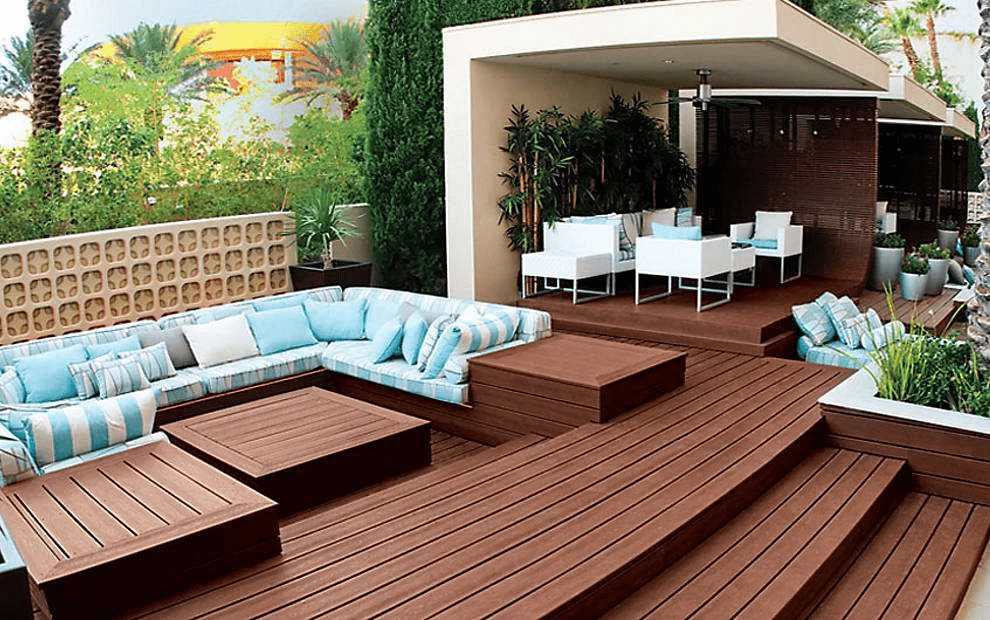
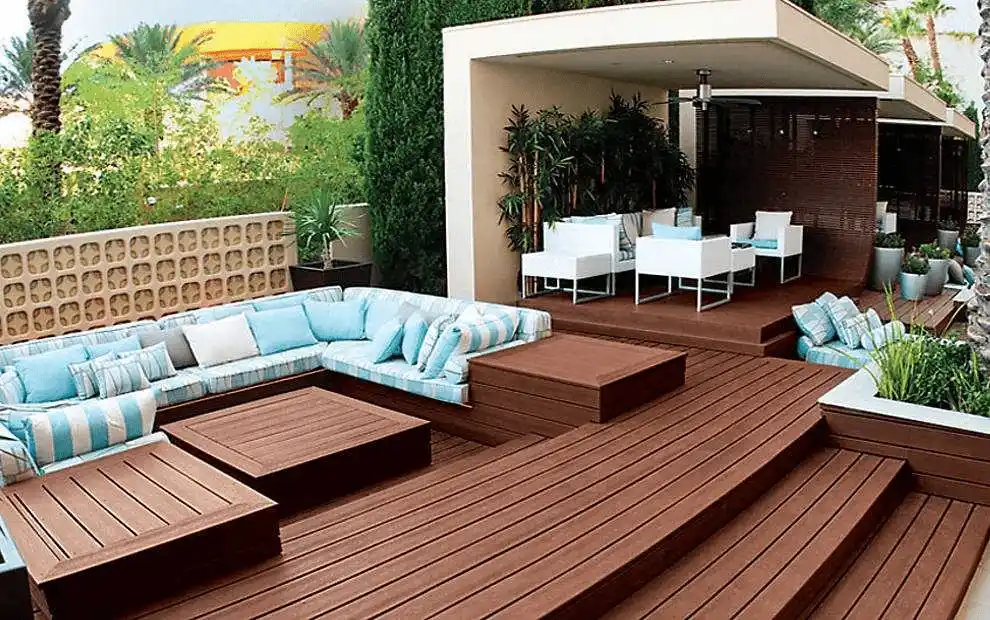
update: Images optimised

diff --git a/src/Catalogues.js b/src/Catalogues.js
@@ -7,6 +7,15 @@ import charcoalfile from './catalogs/Trend_Charcoal_Panels_2020.pdf';
 import doorfile from './catalogs/Trend_Door_Skin_2021.pdf';
 import digitalfile from './catalogs/Trend_HD_Digital_2021.pdf';
 import micafile from './catalogs/Trend_Liner_Mica_2020.pdf';
+import trend1 from './images/trend_1mm.webp';
+import trend8 from './images/trend_8mm.webp';
+import magazine1 from './images/magazine1.webp';
+import magazine2 from './images/magazine2.webp';
+import magazine3 from './images/magazine3.webp';
+import magazine4 from './images/magazine4.webp';
+import magazine5 from './images/magazine5.webp';
+import magazine6 from './images/magazine6.webp';
+
 
 function Catalogues() {
 
@@ -15,11 +24,11 @@ function Catalogues() {
             id: 1,
             title1: "PVC Premium Laminates",
             span1: 2,
-            src1: "magazine1",
+            src1: magazine1,
             file1: laminatesfile,
             title2: "Acrylic Premium Laminates",
             span2: 4,
-            src2: "magazine2",
+            src2: magazine2,
             fade: "right",
             file2: acrylicfile,
         },
@@ -27,11 +36,11 @@ function Catalogues() {
             id: 2,
             title1: "Trend Premium Door Skins",
             span1: 4,
-            src1: "magazine3",
+            src1: magazine3,
             file1: doorfile,
             title2: "Trend HD Digital Laminates",
             span2: 2,
-            src2: "magazine4",
+            src2: magazine4,
             fade: "left",
             file2: digitalfile,
         },
@@ -39,11 +48,11 @@ function Catalogues() {
             id: 3,
             title1: "Trend Liner Mica 2020",
             span1: 3,
-            src1: "magazine5",
+            src1: magazine5,
             file1: micafile,
             title2: "Korean Charcoal Panels",
             span2: 3,
-            src2: "magazine6",
+            src2: magazine6,
             fade: "right",
             file2: charcoalfile,
         },
@@ -60,16 +69,16 @@ function Catalogues() {
                         <div className="col-span-12 lg:col-span-4">
                             <a href={trend1file} download>
                                 <p className="mb-4 text-2xl font-medium cursor-pointer text-trend">Trend 1MM 2021</p>
-                                <div className="w-full overflow-hidden rounded-lg h-96">
-                                    <div className="w-full h-full overflow-hidden duration-500 transform rounded-lg cursor-pointer hover:scale-125 trend1" />
+                                <div className="w-full mx-auto overflow-hidden rounded-md h-96" data-aos="fade-right" data-aos-duration="2000">
+                                    <img src={trend1} alt="Download the catalog here" className="object-cover w-full h-full duration-500 transform rounded-md hover:scale-125" />
                                 </div>
                             </a>
                         </div>
                         <div className="col-span-12 mt-6 lg:mt-0 lg:col-span-8">
                             <a href={trend8file} download>
                                 <p className="mb-4 text-2xl font-medium cursor-pointer text-trend">Trend 0.8MM 2021</p>
-                                <div className="w-full overflow-hidden rounded-lg h-96">
-                                    <div className="w-full h-full overflow-hidden duration-500 transform rounded-lg cursor-pointer hover:scale-125 trend8" />
+                                <div className="w-full mx-auto overflow-hidden rounded-md h-96" data-aos="fade-right" data-aos-duration="2000">
+                                    <img src={trend8} alt="Download the catalog here" className="object-cover w-full h-full duration-500 transform rounded-md hover:scale-125" />
                                 </div>
                             </a>
                         </div>
@@ -81,16 +90,16 @@ function Catalogues() {
                             <div className={`col-span-6 lg:col-span-${span1}`} >
                                 <a href={file1} download>
                                     <p className="mb-4 text-2xl font-medium cursor-pointer text-trend">{title1}</p>
-                                    <div className="w-full overflow-hidden rounded-lg h-96">
-                                        <div className={"w-full overflow-hidden duration-500 transform rounded-lg cursor-pointer h-full hover:scale-125 " + src1} />
+                                    <div className="w-full mx-auto overflow-hidden rounded-md h-96" data-aos="fade-right" data-aos-duration="2000">
+                                        <img src={src1} alt="Download the catalog here" className="object-cover w-full h-full duration-500 transform rounded-md hover:scale-125" />
                                     </div>
                                 </a>
                             </div>
                             <div className={`col-span-6 mt-6 lg:mt-0 lg:col-span-${span2}`}>
                                 <a href={file2} download>
                                     <p className="mb-4 text-2xl font-medium cursor-pointer text-trend">{title2}</p>
-                                    <div className="w-full overflow-hidden rounded-lg h-96">
-                                        <div className={"w-full overflow-hidden duration-500 transform rounded-lg cursor-pointer h-full hover:scale-125 " + src2} />
+                                    <div className="w-full mx-auto overflow-hidden rounded-md h-96" data-aos="fade-right" data-aos-duration="2000">
+                                        <img src={src2} alt="Download the catalog here" className="object-cover w-full h-full duration-500 transform rounded-md hover:scale-125" />
                                     </div>
                                 </a>
                             </div>

diff --git a/src/Content.js b/src/Content.js
@@ -14,6 +14,10 @@ import office from './images/office.webp';
 import living_room from './images/livingroom.webp';
 import bed_room from './images/bedroom.webp';
 import { Link } from 'react-router-dom';
+import custom from './images/customdec.webp';
+import room5 from './images/room5.webp';
+import room6 from './images/room6.webp';
+import room7 from './images/room7.webp';
 
 function Content() {
 
@@ -79,8 +83,8 @@ function Content() {
                     </Link>
                 </div>
                 <div className="relative grid col-span-2 px-10 pr-10 my-20 mt-36 lg:my-16 xl:my-0 md:col-span-1">
-                    <div className="rounded-md custom-image-container">
-                        <div className="custom-image"></div>
+                    <div className="mx-auto overflow-hidden rounded-md w-72 h-96 lg:h-100 lg:w-96">
+                        <img src={custom} alt="" className="object-cover w-full h-full duration-500 transform rounded-md hover:scale-125" />
                     </div>
                     <div className="absolute w-40 h-auto p-3 bg-white rounded-md -top-28 right-2 xl:right-17 opacity-90 xl:w-44 xl:-top-11">
                         <img src={leaf} alt="leaf" className="h-5 md:h-auto" />
@@ -97,8 +101,8 @@ function Content() {
 
 
             <div className="grid items-center grid-cols-2 px-10 mt-20 xl:pl-28 xl:pr-60 md:gap-10 lg:gap-20">
-                <div className="rounded-md rooms" data-aos="fade-right" data-aos-duration="2000">
-                    <div className="stunning-design room-design"></div>
+                <div className="mx-auto overflow-hidden rounded-md w-72 h-96 lg:w-100 lg:h-120" data-aos="fade-right" data-aos-duration="2000">
+                    <img src={room5} alt="Sample of a room design" className="object-cover w-full h-full duration-500 transform rounded-md hover:scale-125" />
                 </div>
                 <div className="col-span-2 my-16 md:my-10 lg:pr-20 md:col-span-1" data-aos="fade-up" data-aos-duration="1000">
                     <p className="text-4xl font-bold lg:text-5xl font-garamond">Stunning Designs</p>
@@ -108,7 +112,7 @@ function Content() {
                     </Link>
                 </div>
             </div>
-            
+
             <div className="flex flex-col-reverse grid-cols-2 px-10 mt-20 md:items-center xl:px-44 md:gap-10 lg:gap-20 md:mt-32 md:grid">
                 <div className="my-16 lg:pl-16" data-aos="fade-up" data-aos-duration="2000">
                     <p className="text-4xl font-bold lg:text-5xl font-garamond">Finest Textures</p>
@@ -119,14 +123,14 @@ function Content() {
                         <button className="absolute flex items-center justify-center p-4 py-6 mt-6 text-base font-bold text-black duration-700 border border-black w-60 hover:text-white hover:border-transparent h-9 rounded-3xl button-slide">Learn About Us <BsArrowRight className="ml-2" size={30} /></button>
                     </Link>
                 </div>
-                <div className="col-span-2 rounded-md rooms md:col-span-1" data-aos="fade-left" data-aos-duration="2000">
-                    <div className="finest-texture room-design"></div>
+                <div className="m-0 overflow-hidden rounded-md lg:mx-auto w-72 h-96 lg:w-100 lg:h-120" data-aos="fade-right" data-aos-duration="2000">
+                    <img src={room6} alt="Sample of a room design" className="object-cover w-full h-full duration-500 transform rounded-md hover:scale-125" />
                 </div>
             </div>
-            
+
             <div className="grid items-center grid-cols-2 px-10 mt-20 xl:pl-28 xl:pr-60 md:gap-10 lg:gap-20 md:mb-20">
-                <div className="rounded-md rooms" data-aos="fade-right" data-aos-duration="2000">
-                    <div className="laser-precision room-design"></div>
+                <div className="mx-auto overflow-hidden rounded-md w-72 h-96 lg:w-100 lg:h-120" data-aos="fade-right" data-aos-duration="2000">
+                    <img src={room7} alt="Sample of a room design" className="object-cover w-full h-full duration-500 transform rounded-md hover:scale-125" />
                 </div>
                 <div className="col-span-2 my-16 lg:pr-20 md:col-span-1" data-aos="fade-up" data-aos-duration="1000">
                     <p className="text-4xl font-semibold md:text-5xl font-garamond">Laser Precision</p>

diff --git a/src/App.css b/src/App.css
@@ -106,103 +106,6 @@ body::after {
   display: none !important;
 }
 
-.rooms{
-  width: 470px;
-  height: 516px;
-  display: block;
-  margin: auto;
-  overflow:hidden;
-}
-
-.custom-image-container{
-  width: 366px;
-  height: 448px;
-  display: block;
-  margin: auto;
-  overflow: hidden;
-}
-
-.custom-image-container:hover .custom-image,.rooms:hover .room-design,.products:hover .product-list{
-  transform: scale(1.25);
-}
-
-.custom-image{
-  background: url('./images/customdec.webp');
-  background-position: center;
-  width: 100%;
-  height: 100%;
-  background-repeat: no-repeat;
-  transition: all 400ms ease-out;
-}
-
-.room-design,.product-list{
-  width: 100%;
-  height: 100%;
-  transition: all 400ms ease-out;
-}
-
-.stunning-design{
-  background: url('./images/room5.webp');
-  background-size: cover;
-  background-position: center;
-}
-
-.finest-texture{
-  background: url('./images/room6.webp');
-  background-size: cover;
-  background-position: center;
-}
-
-.laser-precision{
-  background: url('./images/room7.webp');
-  background-size: cover;
-  background-position: center;
-}
-
-.products{
-  width: 290px;
-  height: 366px;
-  display: block;
-  margin: auto;
-  overflow: hidden;
-}
-
-.decorative{
-  background: url('./images/decorative.webp');
-  background-size: cover;
-  background-position: center;
-}
-
-.pvc_laminates{
-  background: url('./images/pvc_laminates.webp');
-  background-size: cover;
-  background-position: center;
-}
-
-.korean{
-  background: url('./images/korean.webp');
-  background-size: cover;
-  background-position: center;
-}
-
-.pvc_tape{
-  background: url('./images/pvc_tape.webp');
-  background-size: cover;
-  background-position: center;
-}
-
-.acrylic{
-  background: url('./images/acrylic.webp');
-  background-size: cover;
-  background-position: center;
-}
-
-.wpc_board{
-  background: url('./images/wpc_board.webp');
-  background-size: cover;
-  background-position: center;
-}
-
 .tab-content{
   animation: fade 700ms ease-in-out;
   transform-origin: bottom;
@@ -260,54 +163,6 @@ body::after {
 
 .laminates4:hover~.lam-image4{
   transform: translateY(-96px);
-}
-
-.trend1{
-  background: url('./images/trend_1mm.webp');
-  background-size: cover;
-  background-position: center;
-}
-
-.trend8{
-  background: url('./images/trend_8mm.webp');
-  background-size: cover;
-  background-position: center;
-}
-
-.magazine1{
-  background: url('./images/magazine1.webp');
-  background-size: cover;
-  background-position: center;
-}
-
-.magazine2{
-  background: url('./images/magazine2.webp');
-  background-size: cover;
-  background-position: center;
-}
-
-.magazine3{
-  background: url('./images/magazine3.webp');
-  background-size: cover;
-  background-position: center;
-}
-
-.magazine4{
-  background: url('./images/magazine4.webp');
-  background-size: cover;
-  background-position: center;
-}
-
-.magazine5{
-  background: url('./images/magazine5.webp');
-  background-size: cover;
-  background-position: center;
-}
-
-.magazine6{
-  background: url('./images/magazine6.webp');
-  background-size: cover;
-  background-position: center;
 }
 
 .contact{
@@ -481,16 +336,14 @@ body::after {
 }
 
 @media screen and (max-width: 769px) {
-  .custom-image-container,.rooms{
-    width: 300px;
-    height: 400px;
-    margin: 0;
-  }
   .carousel{
     position: relative !important;
   }
   .thumbs-wrapper{
     position: relative !important;
     left: 5%;
+  }
+  .mainCursor,.secondaryCursor{
+    display: none;
   }
 }

diff --git a/src/Carousel.js b/src/Carousel.js
@@ -4,13 +4,19 @@ import "slick-carousel/slick/slick.css";
 import "slick-carousel/slick/slick-theme.css";
 import { BsArrowRight } from 'react-icons/bs';
 import { Link } from 'react-router-dom';
+import decorative from './images/decorative.webp';
+import pvc_laminates from './images/pvc_laminates.webp';
+import korean from './images/korean.webp';
+import pvc_tape  from './images/pvc_tape.webp';
+import acrylic from './images/acrylic.webp';
+import wpc_board from './images/wpc_board.webp';
 
 function Carousel() {
-    const Products = ({ title, type }) => {
+    const Products = ({ title, src }) => {
         return (
             <div className="relative items-center mx-4 mt-20 overflow-hidden text-center">
-                <div className="rounded-md products">
-                    <div className={"product-list " + type} />
+                <div className="mx-auto overflow-hidden rounded-md w-72 h-96" data-aos="fade-right" data-aos-duration="2000">
+                    <img src={src} alt={`Sample of ${title}`} className="object-cover w-full h-full duration-500 transform rounded-md hover:scale-125" />
                 </div>
                 <Link to="/Products"> 
                     <button className="absolute left-0 right-0 w-48 py-2 mx-auto text-center text-black duration-500 bg-white hover:border-black hover:text-white button-slide rounded-3xl bottom-5 product-text">{title}</button>
@@ -56,12 +62,12 @@ function Carousel() {
                 <p className="mt-6 text-base font-normal text-center text-subtitle">We are TrendPVC, a leader in the lamination industry supplying premium flat laminated panels to a diverse clientele.</p>
                 <div className="w-full h-full">
                     <Slider {...settings}>
-                        <Products title="Decorative" type="decorative" />
-                        <Products title="PVC Laminates" type="pvc_laminates" />
-                        <Products title="Korean Charcoal" type="korean" />
-                        <Products title="PVC Tapes" type="pvc_tape" />
-                        <Products title="Acrylic Laminates" type="acrylic" />
-                        <Products title="WPC Board" type="wpc_board" />
+                        <Products title="Decorative" src={decorative} />
+                        <Products title="PVC Laminates" src={pvc_laminates} />
+                        <Products title="Korean Charcoal" src={korean} />
+                        <Products title="PVC Tapes" src={pvc_tape} />
+                        <Products title="Acrylic Laminates" src={acrylic} />
+                        <Products title="WPC Board" src={wpc_board} />
                     </Slider>
                 </div>
                 <Link to="/Products">

diff --git a/tailwind.config.js b/tailwind.config.js
@@ -51,6 +51,13 @@ module.exports = {
         "60":"60",
         "-1":"-1",
       },
+      height:{
+        "100": "475px",
+        "120": "520px",
+      },
+      width:{
+        "100":"470px",
+      }
     },
   },
   variants: {
